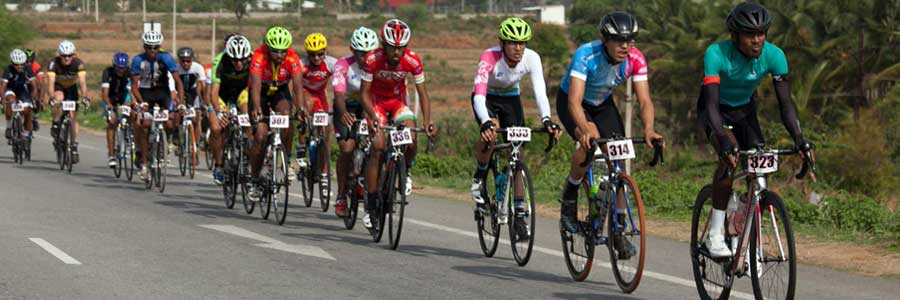
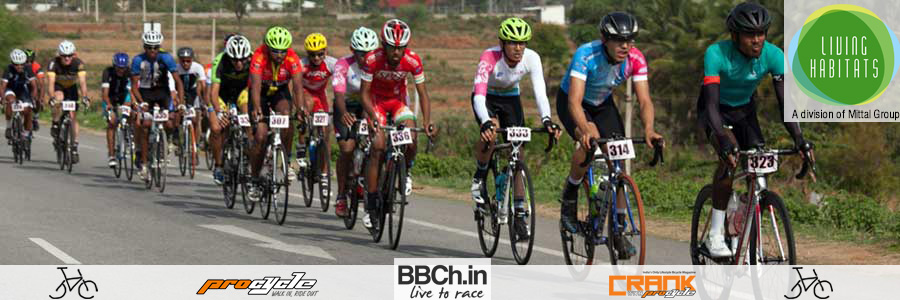
RAce 4
race 4 updated files

Changed region(s): [[0.0, 0.84, 1.0, 1.0], [0.8711, 0.0, 1.0, 0.42], [0.7778, 0.24, 0.8089, 0.27]]

diff --git a/BBCh17Race04.htm b/BBCh17Race04.htm
@@ -159,7 +159,7 @@
             <div class="full-width">
                 <div style="width: 700px; float: left">
                     <h2>
-                        BBCh16 Race #06 - Criterium</h2>    
+                        BBCh17 Race #04 - Criterium</h2>    
                 </div>
                 <div style="float: right; width: 70px">
                     <h5>
@@ -169,14 +169,14 @@
                  <div class="clear">
                 </div>
                 <div align="center">
-                    <img alt="BBCh16:06 Criterium Banner" src="Images/BBCh16Race06_Banner.jpg" style="border: 0" />
+                    <img alt="BBCh17:04 Criterium Banner" src="Images/BBCh17Race04_Banner.jpg" style="border: 0" />
                 </div>
                 <br />
 
                 <div style="width: 48%; float: left">
                 <p>
-                    <span class="CaptionText">When : </span>Sunday, 17th July 2016<br />
-                    <span class="CaptionText">Where : </span><a href="https://goo.gl/maps/oNMdk" target="_blank">Bhartiya City | Thanisandra Main Road</a><br />
+                    <span class="CaptionText">When : </span>Sunday, 21st May 2017<br />
+                    <span class="CaptionText">Where : </span>Coming Soon<br />
                     <span class="CaptionText">Reporting Time : </span>6:00AM<br />
                     <span class="CaptionText">Race Start : </span>7:00AM (Category Wise)<br />
                     <span class="CaptionText">Lap Distance : </span>1.4kms Circuit<br /><br />
@@ -196,29 +196,35 @@
                     <span class="CaptionText">Category : </span>Elite<br />
                     <span class="CaptionText">Time : </span>9:45 AM to 10:35 AM (50 Mins)<br /><br />
                     
-                    <span class="CaptionText">Race Fee : </span>Online -INR 400/- (NO Spot Registration), Race free for Kids<br />
+                    <span class="CaptionText">Race Fee : </span>Online -INR 500/- (NO Spot Registration), Race free for Kids<br />
                     <br />
-                    <a href="https://in.explara.com/e/bbch16-race06" target="_blank">Register To Race</a>
+                    <a href="https://in.explara.com/e/bbch17-race04" target="_blank">Register To Race</a>
                     |&nbsp; <a href="Volunteers.htm">Volunteer Signup</a><br />
+
+                    <br />
+                    <span class="CaptionText">FB Event : </span>
+                    <a href="https://www.facebook.com/events/1831123687151594/" target=_blank>
+                    https://www.facebook.com/events/1831123687151594/</a><br /><br />
+
+
                      </p>
                 </div>
                 <div style="width: 50%; float: left">
                     <span class="CaptionText2">Awesome Sponsors & Partners</span>
-                    <img alt="Sponsor Banner" src="Images/BBCh16_Race06_SP_Road_Banner.gif" style="box-shadow: 0px 0px 10px #888888" />
+                    <img alt="Sponsor Banner" src="Images/BBCh17_Sponsors_Banner.gif" style="box-shadow: 0px 0px 10px #888888" />
                 </div>
                  <div class="clear">
                 </div>
 
-                <h5>Note: Registration will be closed by July Wednesday, 13th (Midnight)</h5>
+                <h5>Note: Registration will be closed by May Wednesday, 17th (Midnight)</h5>
                 <p> 
                     <!--<span class="CaptionText">Note : </span>Due to lesser number of participation in any category, organisers may combine few categories together and hence there might be a small shift in time of start.
                     Everybody is requested to collect their BIBs by 6:45 AM and be there at the race venue to avoid any confusion.
                     The race venue is available only till 9:15 AM and we must finish the podium by that time and vacate the venue.
                     <br /><br />-->
 
-                    The 2016 season of the awesome Bangalore Bicycle Championships is going 
-                    Criterium with a 1.4km Circuit at Bhartiya City, 
-                    Thanisandra Main Road, Near Hebbal and Manyata Tech Park.<br />
+                    The 2017 season of the awesome Bangalore Bicycle Championships is going 
+                    Criterium with a 1.4km Circuit.<br />
                     Get your race face on people and get ready for a rocking at the Bangalore Bicycle Championships. <br /><br />
                 </p>
                 <br />
@@ -253,33 +259,28 @@
                     <b>* Kids</b><br />
                         Participants age should be lesser than 10 years. Parent/Guardian presence is a 
                         must. No restriction on type of bike (they can race with tricycle also :P )
-                        (born on 24-May-2006 or after)<br />
+                        (born on 21-May-2007 or after)<br />
 
                 </p>
 
-               <!-- <br />
+                <br />
 
                 <br />
                 <div>
-                    <iframe src="https://in.explara.com/widget-new/bbch16-race06" frameborder="0" style="width: 100%" height="900"></iframe>
+                    <iframe src="https://in.explara.com/widget-new/bbch17-race04" frameborder="0" style="width: 100%" height="900"></iframe>
                  </div>
                  <br />
                 <hr />
-                <br />-->
+                <br />
 
                 <p>
-                    <span class="CaptionText">The Crit course :</span><br />
+                    <!--<span class="CaptionText">The Crit course :</span><br />
 
                     <a href="http://www.strava.com/segments/7198316" target="_blank">
                         http://www.strava.com/segments/7198316 
                     </a>
                     <br /><br />
                     
-                    <!--<span class="CaptionText">How to Get There :</span><br />
-                    
-                    The start point is situated on the service road at Emerald Isle Resort, approximately 10km 
-                    past the toll gates on the Old Madras Road, heading towards Kolar.<br /><br />-->
-
                     <span class="CaptionText">Map to Bhartiya City : </span>
                     <br />
                     Bhartiya City<br />
@@ -289,12 +290,6 @@
                     India.<br />
                     Google Map : <a href="https://goo.gl/maps/oNMdk" target="_blank">
                             https://goo.gl/maps/oNMdk
-                    </a>
-                    <br /><br />
-
-                    <!--<span class="CaptionText">YouTube video of the course : </span>
-                    <a href="https://www.youtube.com/watch?v=guzxCz7vMRU" target="_blank">
-                            https://www.youtube.com/watch?v=guzxCz7vMRU
                     </a>
                     <br /><br />-->
 
@@ -315,7 +310,7 @@
                         <td colspan="2" style="padding-left: 10px">
                             <span class="CaptionText">
                             Race Venue / Parking / Registration Desk : </span>
-                            Bhartiya City, approximately 6.3km from Nagvara circle(under flyover). near Manyata Tech Park.
+                            <!--Bhartiya City, approximately 6.3km from Nagvara circle(under flyover). near Manyata Tech Park.-->
                         </td>
                     </tr>
                     <tr>
@@ -345,7 +340,7 @@
                         <td colspan="2" style="padding-left: 10px">
                             <span class="CaptionText">
                             Start Point : </span>
-                            Bhartiya City
+                            <!--Bhartiya City-->
                         </td>
                     </tr>
                     <tr>
@@ -469,10 +464,10 @@
                             the last lap of the race is on, and you sprint for the line with all you got the next time across 
                             the finish!<br /><br />-->
 
-                            <b>Why is the Criterium at Bhartiya City going to be awesome?</b><br />
+                            <!--<b>Why is the Criterium at Bhartiya City going to be awesome?</b><br />
                                 1. The course will be completely closed off to traffic!<br />
                                 2. We'll have some absolutely smooth pavement!! <br />
-                                3. Easy to spectate and cheer racers!!!<br /><br />
+                                3. Easy to spectate and cheer racers!!!<br /><br />-->
                         </td>
                     </tr>
                     <tr>
@@ -512,8 +507,8 @@
                                     during the race and his opinion will be considered final.
                                 </li>
                                 <li>
-                                    Registration is strictly on-line <a href="https://in.explara.com/e/bbch16-race06" 
-                                    target="_blank">https://in.explara.com/e/bbch16-race06</a> and no spot registration will be allowed
+                                    Registration is strictly on-line <a href="https://in.explara.com/e/bbch17-race04" 
+                                    target="_blank">https://in.explara.com/e/bbch17-race04</a> and no spot registration will be allowed
                                 </li>
                                 <li>
                                     If you would like to get in touch with the the core team, please do shoot us an email at <b>council@bbch.in </b>
@@ -560,7 +555,7 @@
                  <div style="width: 700px; float: left">
                     <a name="BBCh17_04_CritResult"></a>
                     <h2>
-                        BBCh16 Race #06 - Criterium Result</h2>
+                        BBCh17 Race #04 - Criterium Result</h2>
                 </div>
                 <div class="clear">
                 </div>

diff --git a/index.html b/index.html
@@ -203,24 +203,12 @@
                 <div class="showcase-slide">
                     <!-- Put the slide content in a div with the class .showcase-content. -->
                     <div class="showcase-content">
-                        <img src="Images/BBCh17Banner_Race03.jpg" alt="2" />
-                    </div>
-                    <div class="showcase-caption">
-                        MTB Race (Dirt)<br />
-                        XC Race<br />
-                        April 16th | Yalahannka - Avalahalli Forest
-                    </div>
-                </div>
-
-                 <div class="showcase-slide">
-                    <!-- Put the slide content in a div with the class .showcase-content. -->
-                    <div class="showcase-content">
                         <img src="Images/BBCh17Banner_Race04.jpg" alt="2" />
                     </div>
                     <div class="showcase-caption">
                         Road Race (Tarmac)<br />
                         Criterium<br />
-                        May 21st | Bhartiya City
+                        May 21st | -
                     </div>
                 </div>
 
@@ -263,7 +251,7 @@
                 <div class="showcase-slide">
                     <!-- Put the slide content in a div with the class .showcase-content. -->
                     <div class="showcase-content">
-                        <img src="Images/BBCh15TTTBanner.jpg" alt="2" />
+                        <img src="Images/BBCh17Banner_Race08.jpg" alt="2" />
                     </div>
                     <div class="showcase-caption">
                         Road Race (Tarmac)<br />
@@ -322,6 +310,19 @@
                     </div>
                 </div>
 
+                <div class="showcase-slide">
+                    <!-- Put the slide content in a div with the class .showcase-content. -->
+                    <div class="showcase-content">
+                        <img src="Images/BBCh17Banner_Race03.jpg" alt="2" />
+                    </div>
+                    <div class="showcase-caption">
+                        MTB Race (Dirt)<br />
+                        XC Race<br />
+                        April 16th | Yalahannka - Avalahalli Forest
+                    </div>
+                </div>
+
+
 
                 <!--<div class="showcase-slide">
                     <div class="showcase-content">
@@ -357,36 +358,34 @@
             <!-- Divider -->
             <!-- Begin Top Columns -->
             <div class="two-third">
-                <h4>UPCOMING RACE : <a href="BBCh17Race03.htm">BBCh17 Race #03 - Cross-Country Olympic (XCO) Race</a></h4>
+                <h4>UPCOMING RACE : <a href="BBCh17Race04.htm">BBCh17 Race #04 - Criterium</a></h4>
                 
                 <p>
-                    <span class="CaptionText">When : </span>Sunday, 16th April 2017<br />
-                    <span class="CaptionText">Where : </span><a href="https://goo.gl/maps/iMMdcjejA7z" target=_blank>Avalahalli State Forest, Yelahanka (500 Mtr ahead of Presidency School)</a><br />
+                    <span class="CaptionText">When : </span>Sunday, 21st May 2017<br />
+                    <span class="CaptionText">Where : </span>Coming Soon<br />
                     <span class="CaptionText">Reporting Time : </span>6:00AM<br />
-                    <span class="CaptionText">Lap Distance : </span>5.4km<br /><br />
+                    <span class="CaptionText">Race Start : </span>7:00AM (Category Wise)<br />
+                    <span class="CaptionText">Lap Distance : </span>1.4kms Circuit<br /><br />
 
-                    <span class="CaptionText">-: Elite :-</span><br />
-                    Race Start   : 7:30AM<br />
-                    Laps     : 6<br />
+                    <span class="CaptionText">Category : </span>Women & U-18<br />
+                    <span class="CaptionText">Time : </span>7:00 AM to 7:30 AM (30 Mins)<br /><br />
 
-                    <span class="CaptionText">-: Amateur :-</span><br />
-                    Race Start   : 7:35AM<br />
-                    Laps     : 5<br />
+                    <span class="CaptionText">Category : </span>Amateur<br />
+                    <span class="CaptionText">Time : </span>7:40 AM to 8:20 AM (40 Mins)<br /><br />
 
-                    <span class="CaptionText">-: U-18 & Women :-</span><br />
-                    Race Start   : 7:40AM<br />
-                    Laps     : 4<br />
-                    <span class="CaptionText">Cut-off Time for all : </span>9:45AM<br /><br />
+                    <span class="CaptionText">Category : </span>Master<br />
+                    <span class="CaptionText">Time : </span>8:30 AM to 9:20 AM (50 Mins)<br /><br />
 
-                    <span class="CaptionText">Note : </span>
-                    We need minimum registration for Elite & Amateur Categories. In case of lesser 
-                    number of registrations into Elite & Amateur, then both categories will be merged 
-                    into Open Men.
-                    <br /><br />
+                    <span class="CaptionText">Category : </span>Kids (U-10)<br />
+                    <span class="CaptionText">Time : </span>9:30 AM to 9:40 AM (Half Lap)<br /><br />
+
+                    <span class="CaptionText">Category : </span>Elite<br />
+                    <span class="CaptionText">Time : </span>9:45 AM to 10:35 AM (50 Mins)<br /><br />
                     
-                    <span class="CaptionText">Race Fee : </span>Online -INR 500/- (NO Spot Registration)<br />
+                    <span class="CaptionText">Race Fee : </span>Online -INR 500/- (NO Spot Registration), Race free for Kids<br />
                     <br />
                 </p>
+
             </div>
             <div class="one-third last">
                 <table>
@@ -412,21 +411,21 @@
                     into Open Men.
                     <br /><br />-->
 
-                    <a href="https://in.explara.com/e/bbch17-race03" target="_blank">Register To Race</a> |&nbsp;
+                    <a href="https://in.explara.com/e/bbch17-race04" target="_blank">Register To Race</a> |&nbsp;
                     <a href="Volunteers.htm">Volunteer Signup</a><br />
 
                     <span class="CaptionText">FB Event : </span>
-                    <a href="https://www.facebook.com/events/407588832935582/" target=_blank>
-                    https://www.facebook.com/events/407588832935582/</a><br /><br />
+                    <a href="https://www.facebook.com/events/1831123687151594/" target=_blank>
+                    https://www.facebook.com/events/1831123687151594/</a><br /><br />
 
                 <span style="letter-spacing: 1px">
-                    <h5><b>Note: Registration will be closed by Wednesday, 12th April (Midnight)</b></h5>
+                    <h5><b>Note: Registration will be closed by Wednesday, 17th May (Midnight)</b></h5>
                 </span>
                 <p style="line-height: 200%">
-                    The 2nd MTB Race of the Bangalore Bicycle Championships 2017 season is going with a Cross-Country Olympic (XCO) Race.<br />
+                    The 2nd Road Race of the Bangalore Bicycle Championships 2017 season is going with a Criterium.<br />
                     <br />
-                    Get your race face on people and get ready for a rocking new road season at the Bangalore Bicycle Championships. <br />
-                    For more details of the Race, <a href="BBCh17Race03.htm">Click Here...</a>
+                    Get your race face on people and get ready for a rocking road season at the Bangalore Bicycle Championships. <br />
+                    For more details of the Race, <a href="BBCh17Race04.htm">Click Here...</a>
                  </p>
                  <br />
                 </p>
@@ -436,7 +435,7 @@
 
             <br /><br />
             <div>
-                <iframe src="https://in.explara.com/widget-new/bbch17-race03" frameborder="0" style="width:100%;" height="900"></iframe>
+                <iframe src="https://in.explara.com/widget-new/bbch17-race04" frameborder="0" style="width:100%;" height="900"></iframe>
                 </div>
                 <br />
 

diff --git a/style.css b/style.css
@@ -696,8 +696,8 @@ div.showcase-tooltip {
 .showcase-caption {
 	color: #000;        padding: 9px 15px 7px 15px;     text-align: left;
 	line-height: 150%;  position: absolute;             
-	bottom: 10px;       font-weight: bold;
-	left: 10px;         letter-spacing: 1px;
+	bottom: 37px;       font-weight: bold;
+	left: 2px;         letter-spacing: 1px;
 	display: none;      width: auto;
 	background-image: url(style/images/white-opacity-80.png);
 	opacity:0.9;        filter:alpha(opacity=70);

diff --git a/ParticipantsList.htm b/ParticipantsList.htm
@@ -182,7 +182,7 @@
                 </div>
                 <div align="center">
                     <div align="center">
-                        <iframe src="https://in.explara.com/em/event/attendee/attendee-list-widget/eid/235726"
+                        <iframe src="https://in.explara.com/em/event/attendee/attendee-list-widget/eid/263015"
                             width="800px" height="355px"></iframe>
                     </div>
                 </div>

diff --git a/BBChCalendar.htm b/BBChCalendar.htm
@@ -269,7 +269,7 @@
                                 Criterium
                             </td>
                             <td class="TblCommonText">
-                                Bhartiya City
+                                -
                             </td>                                                     
                         </tr>                        
                         <tr>
